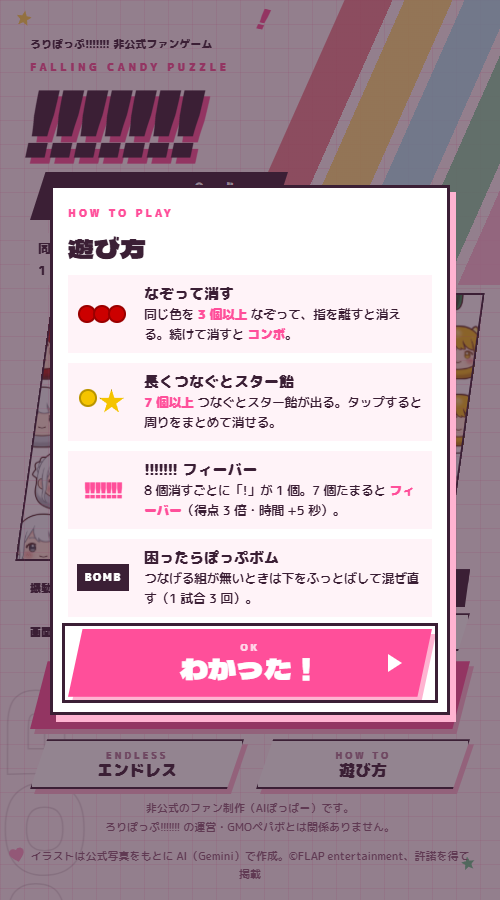
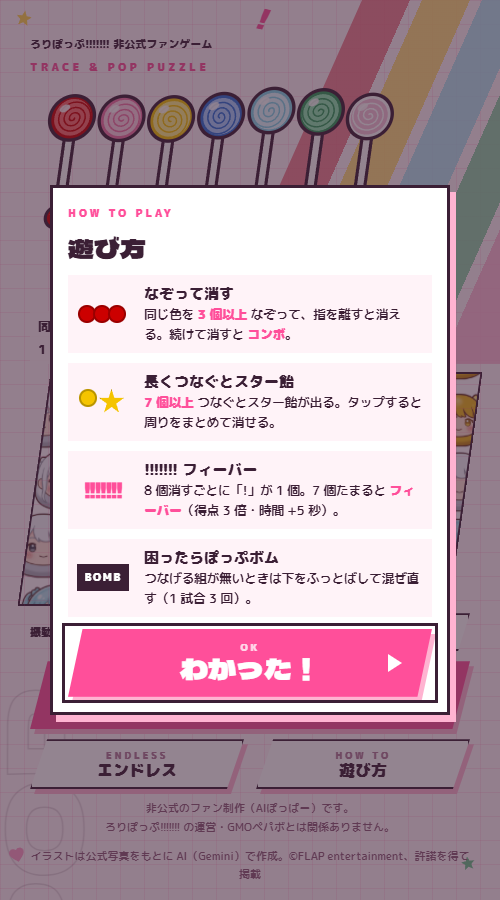
記事の表記を「なぞってぽっぷ」「なぞり消しパズル」に合わせる
- 作品説明と Zenn 記事の「落ちものパズル」を改め、タイトル画面と遊び方の画像を撮り直した

Claude-Session: https://claude.ai/code/session_01UjdfkFMso5i5bRvbcA6sUN

diff --git a/docs/articles/contest_description.md b/docs/articles/contest_description.md
@@ -5,19 +5,19 @@
 - 事実の出典：README.md、js/config.js（数値）、lollpop_docs の members/members.md（メンバー表記）
 -->
 
-# !!!!!!! 落ちものパズル — 作品説明
+# !!!!!!! なぞってぽっぷ — 作品説明
 
 公開 URL：https://lollpop-puzzle.lolipop-now.app/
 
 ## 短い版（フォーム用・約 200 字）
 
-アイドルグループ「ろりぽっぷ!!!!!!!」のファンとして作った、ツムツム風の落ちものパズルです。メンバー 5 人の顔の駒を、同じ色どうし 3 個以上なぞって消します。消した数で「!」が溜まり、7 個そろうと「!!!!!!! フィーバー」。1 分間でどこまで盛り上げられるかを競い、結果は「ポップなお祭り度」で表示します。スマホのブラウザだけで、インストールなしで遊べます。非公式のファン制作です。
+アイドルグループ「ろりぽっぷ!!!!!!!」のファンとして作った、ツムツム風のなぞり消しパズル「!!!!!!! なぞってぽっぷ」です。メンバー 5 人の顔の駒を、同じメンバーどうし 3 個以上なぞってつなげて消します。消した数で「!」が溜まり、7 個そろうと「!!!!!!! フィーバー」。1 分間でどこまで盛り上げられるかを競い、結果は「ポップなお祭り度」で表示します。スマホのブラウザだけで、インストールなしで遊べます。非公式のファン制作です。
 
 ## 詳しい版
 
 ### 作りたかったもの
 
-スマホで何度も遊んでしまう、ツムツムのような「なぞって消す」落ちものパズルを、自分が応援しているアイドルグループ「ろりぽっぷ!!!!!!!」で作りたいと思ったのが始まりです。
+スマホで何度も遊んでしまう、ツムツムのような「なぞってつなげて消す」パズルを、自分が応援しているアイドルグループ「ろりぽっぷ!!!!!!!」で作りたいと思ったのが始まりです。
 
 グループ名に付いている 7 個の「!」と、メンバー 5 人の担当カラー（赤・黄・水色・緑・白）は、そのままゲームの仕組みにできると考えました。駒の色はメンバーカラー、フィーバーの合図は「!!!!!!!」です。ライブの合間の待ち時間に 1 分で 1 回遊べて、結果をそのまま X でシェアできる、という手軽さを目指しました。
 

diff --git a/docs/articles/zenn_lollpop_puzzle.md b/docs/articles/zenn_lollpop_puzzle.md
@@ -12,7 +12,7 @@ published: false
 docs/handoff.md、claude-work/20260914_落ちものパズル制作/作業記録.md（第 11〜14 弾）、~/.claude/skills/agy-ask/SKILL.md
 -->
 
-アイドルグループ「ろりぽっぷ!!!!!!!」の非公式ファンゲームとして、ツムツム風の「なぞって消す」落ちものパズルを作り、ロリポップ！デプロイナウで公開しました。
+アイドルグループ「ろりぽっぷ!!!!!!!」の非公式ファンゲームとして、ツムツム風のなぞり消しパズル「!!!!!!! なぞってぽっぷ」を作り、ロリポップ！デプロイナウで公開しました。
 
 - 遊べる URL：https://lollpop-puzzle.lolipop-now.app/
 - リポジトリ：https://github.com/devhitoshi/lollpop_puzzle
